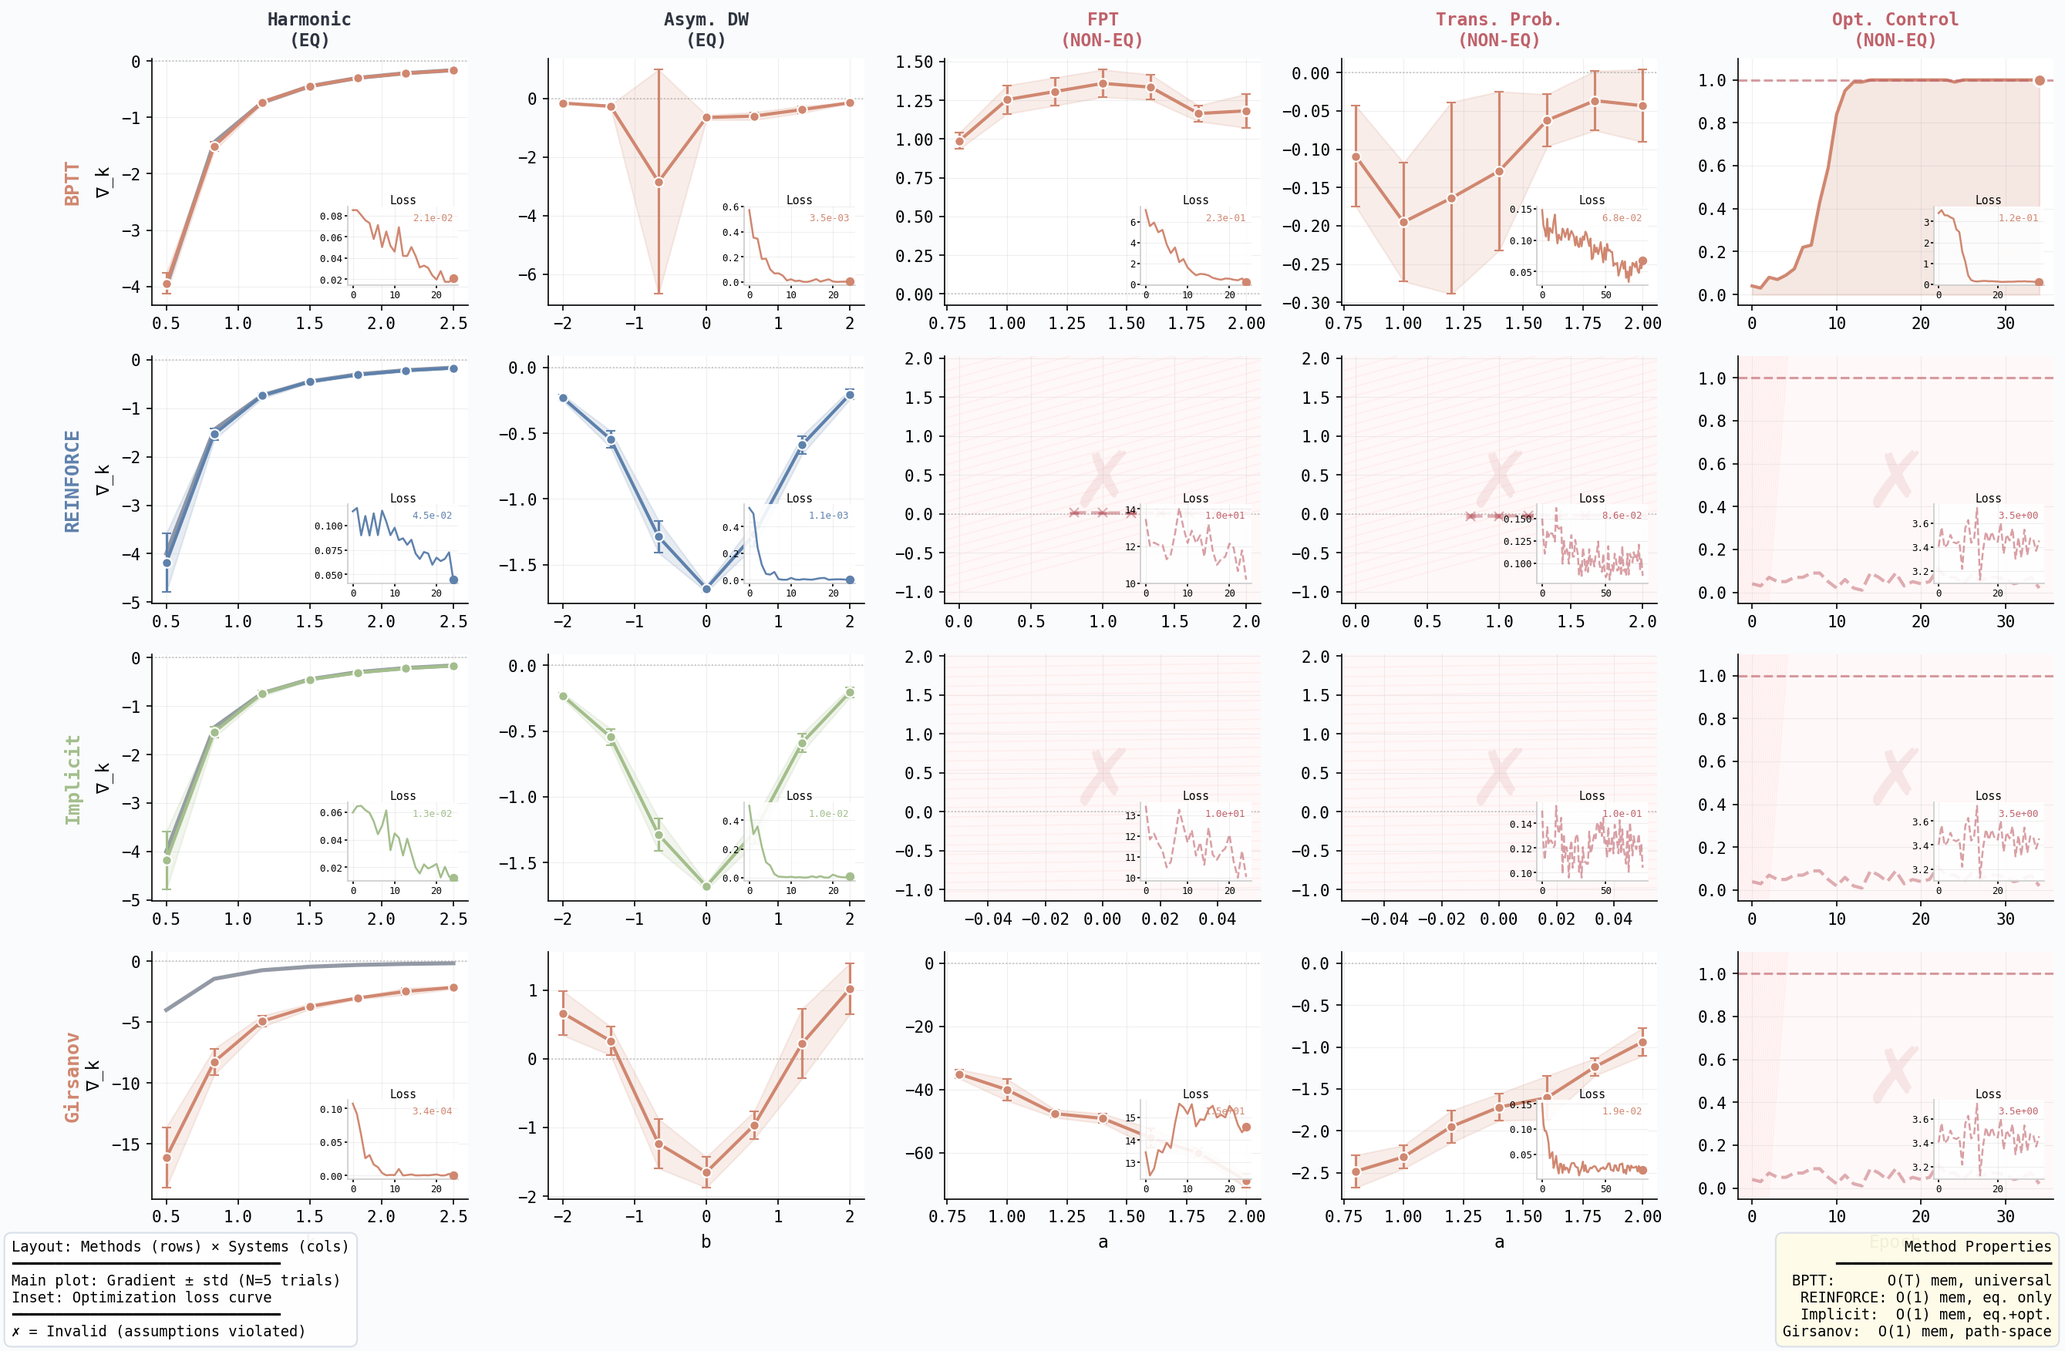
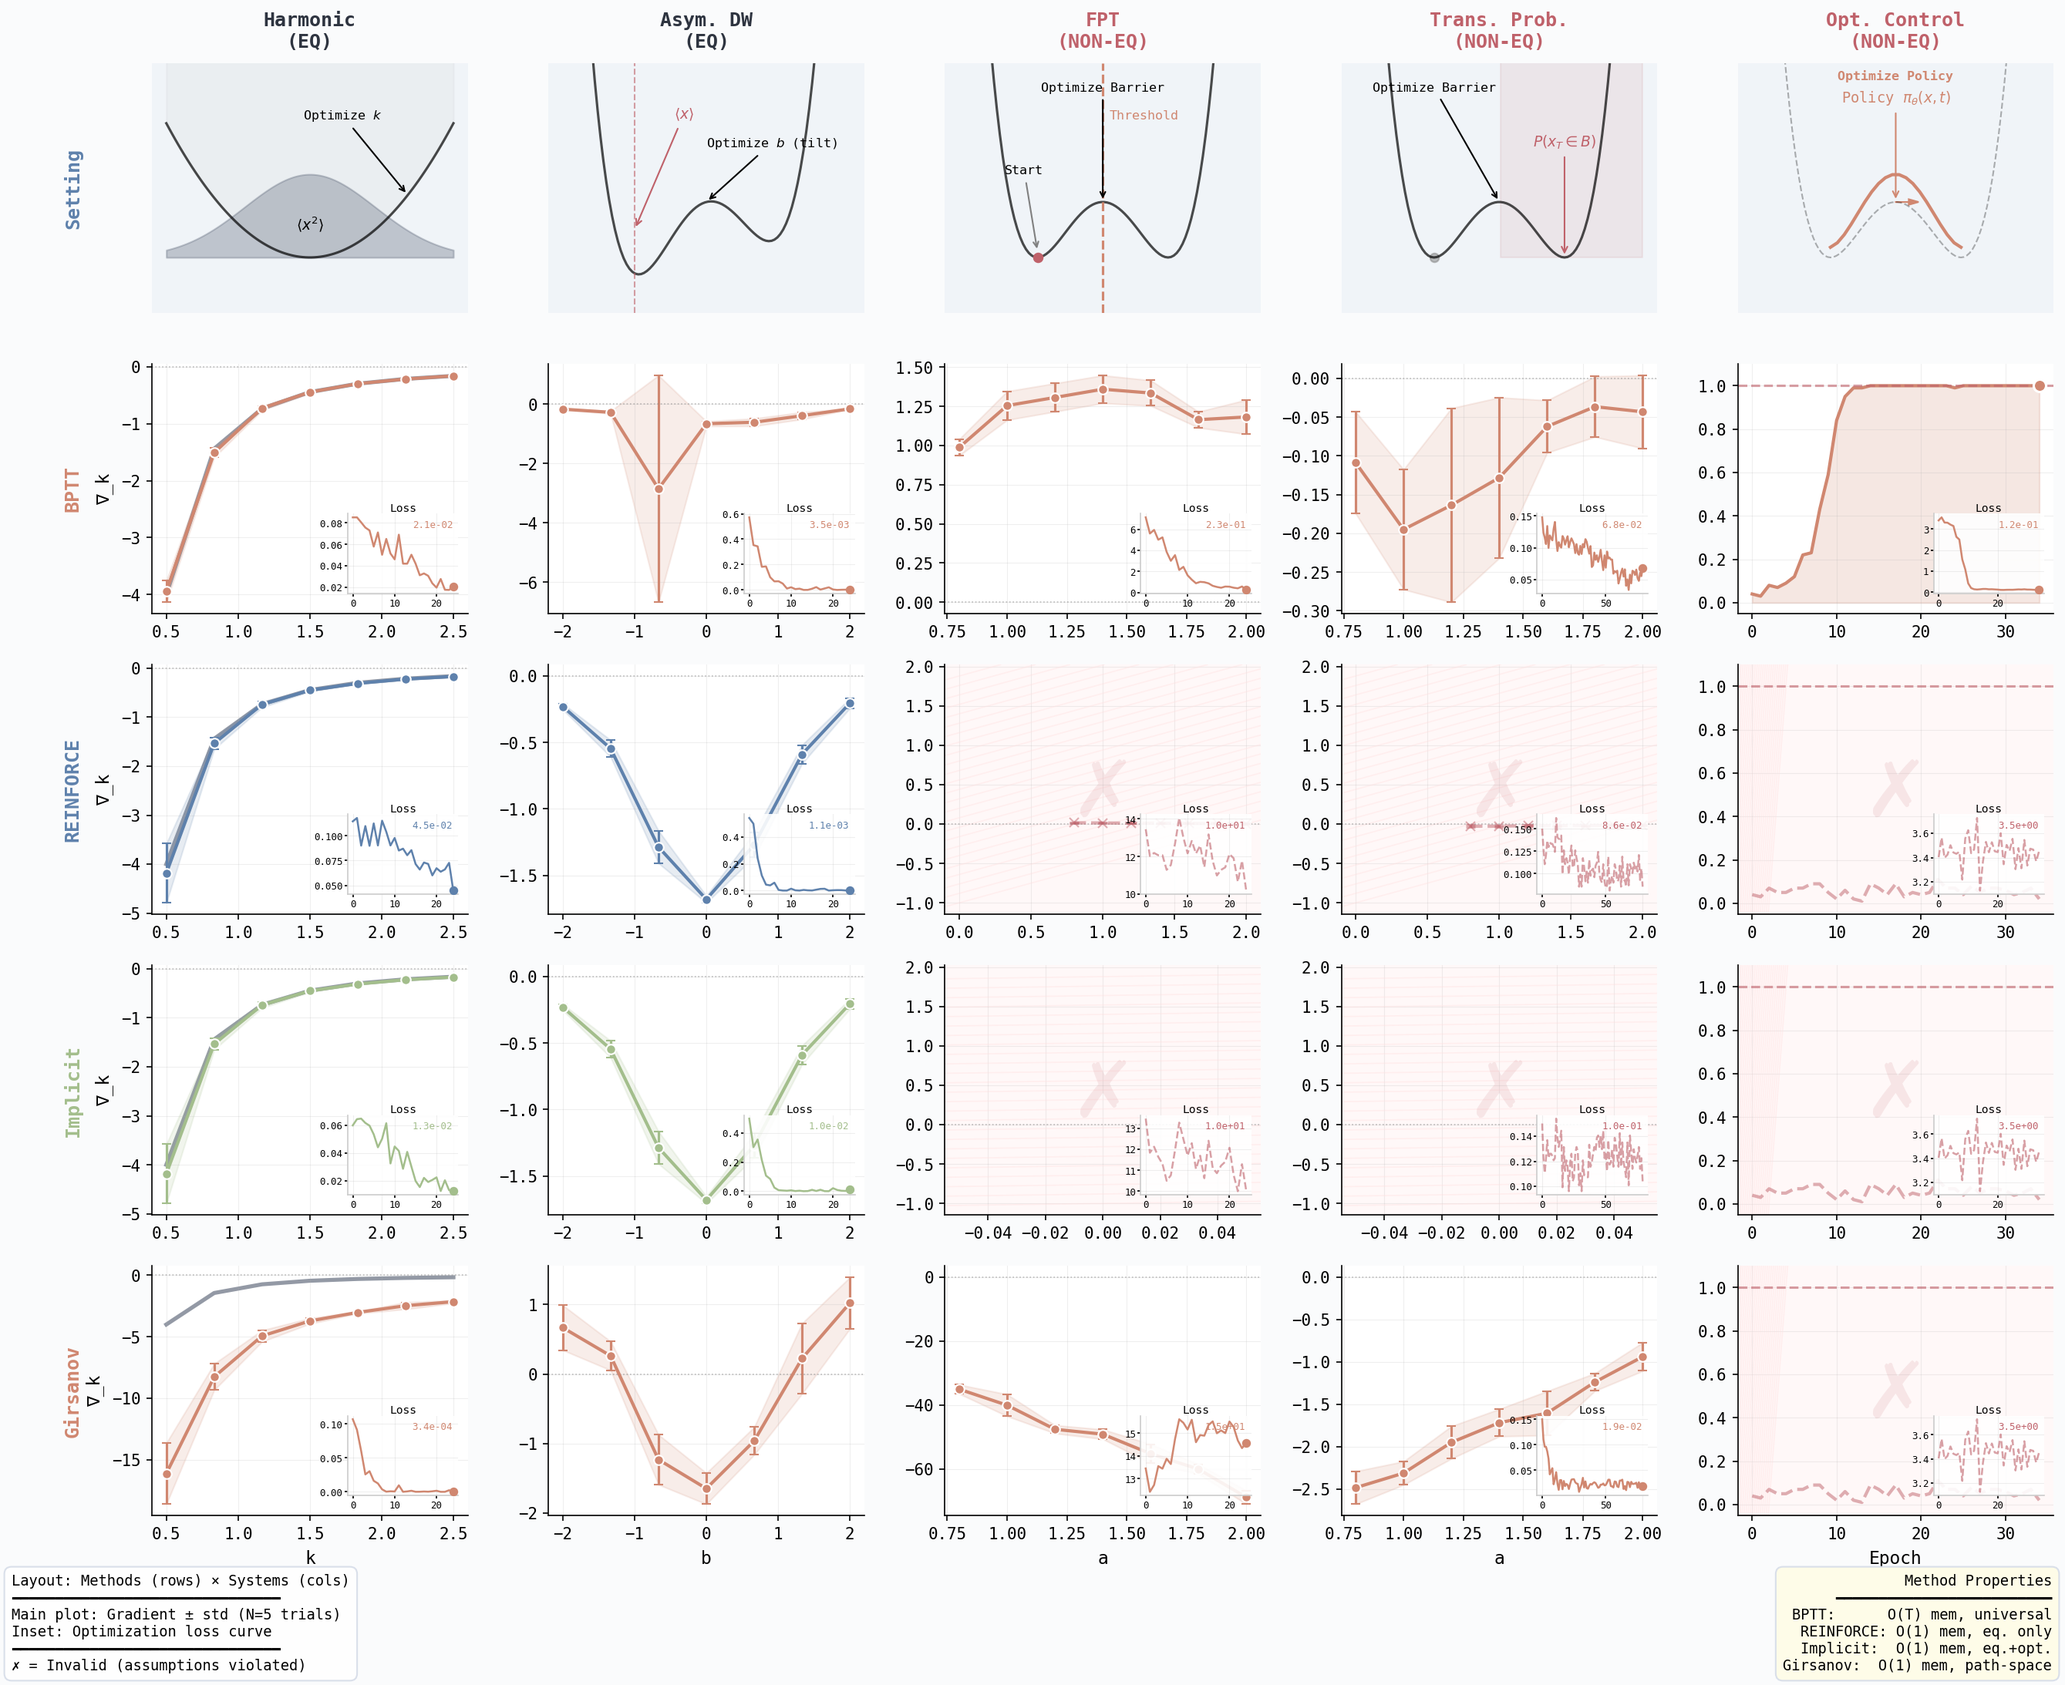
add tasks schematic

diff --git a/scripts/demo_gradient_estimators.py b/scripts/demo_gradient_estimators.py
@@ -8,10 +8,12 @@ and optimization trajectories in insets.
 
 Grid Structure:
 ┌─────────────────────────────────────────────────────────────────────────┐
-│ ROWS: Gradient Methods                                                  │
-│   1. BPTT (Backprop Through Time)                                       │
-│   2. REINFORCE                                                          │
-│   3. Implicit Differentiation                                           │
+│ ROWS:                                                                   │
+│   1. Problem Setting (Schematic)                                        │
+│   2. BPTT (Backprop Through Time)                                       │
+│   3. REINFORCE                                                          │
+│   4. Implicit Differentiation                                           │
+│   5. Girsanov (Path Reweighting)                                        │
 │                                                                         │
 │ COLUMNS: Systems                                                        │
 │   1. Harmonic (Equilibrium)                                             │
@@ -880,10 +882,86 @@ def run_optimal_control():
 # Plotting
 # =============================================================================
 
-def plot_comprehensive_comparison(results_list, save_path):
-    """Create a 4×5 grid: methods (rows) × systems (columns)."""
+def plot_system_schematic(ax, system_name, system_type):
+    """Plot schematic of the problem setting."""
+    ax.set_facecolor('#F0F4F8')
+    x = np.linspace(-2.2, 2.2, 100)
     
-    fig, axes = plt.subplots(4, 5, figsize=(18, 12))
+    if system_name == 'Harmonic':
+        y = 0.5 * x**2
+        ax.plot(x, y, 'k-', lw=1.5, alpha=0.7)
+        # Illustrate observable <x^2>
+        # Shade the thermal distribution
+        prob = np.exp(-y)
+        ax.fill_between(x, y, 4, alpha=0.05, color='gray')
+        ax.fill_between(x, 0, prob * 1.5, color=COLORS['Theory'], alpha=0.3)
+        ax.annotate(r'$\langle x^2 \rangle$', xy=(0, 0.5), ha='center', fontsize=9, fontweight='bold')
+        # Highlight optimized parameter k
+        ax.annotate('Optimize $k$', xy=(1.5, 1.125), xytext=(0.5, 2.5),
+                   arrowprops=dict(arrowstyle='->', color='black', lw=1), fontsize=8, ha='center')
+        
+    elif system_name == 'Asym. DW':
+        y = (x**2 - 1)**2 + 0.3 * x
+        ax.plot(x, y, 'k-', lw=1.5, alpha=0.7)
+        # Illustrate mean position shift
+        ax.axvline(-1.1, color=COLORS['Target'], ls='--', alpha=0.6, lw=1)
+        ax.annotate(r'$\langle x \rangle$', xy=(-1.1, 0.5), xytext=(-0.5, 2.5), 
+                   arrowprops=dict(arrowstyle='->', color=COLORS['Target']), fontsize=9, color=COLORS['Target'])
+        # Highlight optimized parameter b (tilt)
+        ax.annotate('Optimize $b$ (tilt)', xy=(0, 1.0), xytext=(1.0, 2.0),
+                   arrowprops=dict(arrowstyle='->', color='black', lw=1), fontsize=8, ha='center')
+
+    elif system_name == 'FPT':
+        y = (x**2 - 1)**2
+        ax.plot(x, y, 'k-', lw=1.5, alpha=0.7)
+        # Illustrate barrier crossing
+        ax.scatter([-1], [0], color=COLORS['Target'], s=30, zorder=5)
+        ax.annotate('Start', xy=(-1, 0.1), xytext=(-1.5, 1.5), arrowprops=dict(arrowstyle='->', color='gray'), fontsize=8)
+        ax.axvline(0, color=COLORS['Girsanov'], ls='--', lw=1.5)
+        ax.text(0.1, 2.5, 'Threshold', color=COLORS['Girsanov'], fontsize=8)
+        # Highlight optimized parameter (barrier height)
+        ax.annotate('Optimize Barrier', xy=(0, 1.0), xytext=(0, 3.0),
+                   arrowprops=dict(arrowstyle='->', color='black', lw=1), fontsize=8, ha='center')
+        
+    elif system_name == 'Trans. Prob.':
+        y = (x**2 - 1)**2
+        ax.plot(x, y, 'k-', lw=1.5, alpha=0.7)
+        # Illustrate transition to right well
+        ax.scatter([-1], [0], color='gray', s=30, alpha=0.5)
+        ax.annotate(r'$P(x_T \in B)$', xy=(1, 0), xytext=(1, 2), 
+                   arrowprops=dict(arrowstyle='->', color=COLORS['Target']), ha='center', fontsize=9, color=COLORS['Target'])
+        ax.fill_between(x, 0, 4, where=(x>0), color=COLORS['Target'], alpha=0.1)
+        # Highlight optimized parameter (barrier height)
+        ax.annotate('Optimize Barrier', xy=(0, 1.0), xytext=(-1.0, 3.0),
+                   arrowprops=dict(arrowstyle='->', color='black', lw=1), fontsize=8, ha='center')
+
+    elif system_name == 'Opt. Control':
+        y = (x**2 - 1)**2
+        ax.plot(x, y, 'k--', lw=1, alpha=0.3)
+        # Illustrate controlled path
+        t = np.linspace(0, 1, 20)
+        path_x = -1 + 2 * t  # Simple path left to right
+        path_y = (path_x**2 - 1)**2 + 0.5 * np.exp(-(path_x)**2) # Lifted path
+        ax.plot(path_x, path_y, '-', color=COLORS['BPTT'], lw=2)
+        ax.arrow(0, 1.0, 0.2, 0, head_width=0.1, color=COLORS['BPTT'])
+        ax.annotate(r'Policy $\pi_\theta(x,t)$', xy=(0, 1.0), xytext=(0, 2.8), 
+                   arrowprops=dict(arrowstyle='->', color=COLORS['BPTT']), color=COLORS['BPTT'], ha='center', fontsize=9)
+        # Highlight optimized policy
+        ax.text(0, 3.2, 'Optimize Policy', fontsize=8, ha='center', fontweight='bold', color=COLORS['BPTT'])
+
+    ax.set_ylim(-1, 3.5)
+    ax.set_yticks([])
+    ax.set_xticks([])
+    ax.spines['top'].set_visible(False)
+    ax.spines['right'].set_visible(False)
+    ax.spines['left'].set_visible(False)
+    ax.spines['bottom'].set_visible(False)
+
+
+def plot_comprehensive_comparison(results_list, save_path):
+    """Create a 5×5 grid: Setting (row 0) + methods (rows 1-4) × systems (columns)."""
+    
+    fig, axes = plt.subplots(5, 5, figsize=(18, 15))
     fig.patch.set_facecolor('#FAFBFC')
     
     method_names = ['BPTT', 'REINFORCE', 'Implicit', 'Girsanov']
@@ -894,7 +972,22 @@ def plot_comprehensive_comparison(results_list, save_path):
         is_equilibrium = col < 2
         is_control = col == 4
         
-        for row, method in enumerate(method_names):
+        # Row 0: Problem Setting Schematic
+        plot_system_schematic(axes[0, col], sys_name, sys_type)
+        
+        # Title (top row only)
+        color = '#2E3440' if is_equilibrium else '#BF616A'
+        axes[0, col].set_title(f'{sys_name}\n({sys_type})', fontweight='bold', fontsize=12,
+                    color=color, pad=10)
+        
+        # Row label for schematic (left column only)
+        if col == 0:
+            axes[0, col].annotate("Setting", xy=(-0.25, 0.5), xycoords='axes fraction',
+                       rotation=90, va='center', ha='center', fontsize=12,
+                       fontweight='bold', color='#5E81AC')
+
+        for row_idx, method in enumerate(method_names):
+            row = row_idx + 1  # Shift down by 1
             ax = axes[row, col]
             
             method_data = res[method]
@@ -928,7 +1021,7 @@ def plot_comprehensive_comparison(results_list, save_path):
                 ax.set_ylim(-0.05, 1.1)
                 ax.axhline(1.0, color=COLORS['Target'], ls='--', lw=1.5, alpha=0.6)
                 ax.set_ylabel('Success Rate' if col == 0 else '')
-                ax.set_xlabel('Epoch' if row == 3 else '')
+                ax.set_xlabel('Epoch' if row == 4 else '')
             else:
                 # Gradient with error bars
                 grads_mean = np.array(method_data['grads_mean'])
@@ -954,7 +1047,7 @@ def plot_comprehensive_comparison(results_list, save_path):
                 
                 ax.axhline(0, color='gray', ls=':', lw=0.8, alpha=0.5)
                 ax.set_ylabel(f'∇_{param_name}' if col == 0 else '')
-                ax.set_xlabel(param_name if row == 3 else '')
+                ax.set_xlabel(param_name if row == 4 else '')
             
             # Inset: Loss curve - small, consistent position in lower-right
             if 'loss_history' in method_data and len(method_data['loss_history']) > 0:
@@ -986,12 +1079,6 @@ def plot_comprehensive_comparison(results_list, save_path):
                 ax_ins.annotate(f'{final_loss:.1e}', xy=(0.95, 0.92), 
                                xycoords='axes fraction', ha='right', va='top',
                                fontsize=6, color=COLORS[method] if is_valid else COLORS['Invalid'])
-            
-            # Column header (only top row)
-            if row == 0:
-                color = '#2E3440' if is_equilibrium else '#BF616A'
-                ax.set_title(f'{sys_name}\n({sys_type})', fontweight='bold', fontsize=11,
-                            color=color, pad=8)
             
             # Row label (only left column)
             if col == 0:
@@ -1070,6 +1157,117 @@ def print_summary_table(results_list):
     print(f"{'Memory Scaling':<25} | {'O(T)':<12} | {'O(1)':<12} | {'O(1)':<12} | {'O(1)':<12}")
     print(f"{'Needs Diff. Solver':<25} | {'Yes':<12} | {'No':<12} | {'No':<12} | {'No':<12}")
     print("=" * 80)
+
+
+def plot_individual_columns(results_list, save_dir):
+    """Create separate figures for each system column."""
+    
+    method_names = ['BPTT', 'REINFORCE', 'Implicit', 'Girsanov']
+    system_names = ['Harmonic', 'Asym. DW', 'FPT', 'Trans. Prob.', 'Opt. Control']
+    system_types = ['EQ', 'EQ', 'NON-EQ', 'NON-EQ', 'NON-EQ']
+    file_slugs = ['harmonic', 'asym_dw', 'fpt', 'trans_prob', 'opt_control']
+    
+    for col, (res, sys_name, sys_type, slug) in enumerate(zip(results_list, system_names, system_types, file_slugs)):
+        fig, axes = plt.subplots(5, 1, figsize=(4, 12))
+        fig.patch.set_facecolor('#FAFBFC')
+        
+        is_equilibrium = col < 2
+        is_control = col == 4
+        
+        # Row 0: Schematic
+        plot_system_schematic(axes[0], sys_name, sys_type)
+        color = '#2E3440' if is_equilibrium else '#BF616A'
+        axes[0].set_title(f'{sys_name}\n({sys_type})', fontweight='bold', fontsize=11, color=color, pad=8)
+        
+        for row_idx, method in enumerate(method_names):
+            row = row_idx + 1
+            ax = axes[row]
+            method_data = res[method]
+            is_valid = method_data.get('valid', True)
+            
+            # Background
+            if not is_valid:
+                ax.set_facecolor('#FFF8F8')
+                for i in range(-100, 200, 12):
+                    ax.axline((0, i/100), slope=0.5, color='#FFE0E0', lw=0.8, alpha=0.4, clip_on=True)
+            else:
+                ax.set_facecolor('#FFFFFF')
+                
+            param_vals = res['param_values']
+            param_name = res.get('param_name', '')
+            
+            # Main plot
+            if is_control:
+                success = method_data.get('success', method_data['grads_mean'])
+                if is_valid:
+                    ax.plot(param_vals, success, '-', color=COLORS[method], lw=LW)
+                    ax.fill_between(param_vals, 0, success, color=COLORS[method], alpha=0.2)
+                    ax.scatter([param_vals[-1]], [success[-1]], color=COLORS[method], s=60, zorder=5, edgecolor='white', linewidth=1.5)
+                else:
+                    ax.plot(param_vals, success, '--', color=COLORS['Invalid'], lw=LW, alpha=0.5)
+                
+                ax.set_ylim(-0.05, 1.1)
+                ax.axhline(1.0, color=COLORS['Target'], ls='--', lw=1.5, alpha=0.6)
+                ax.set_ylabel('Success Rate')
+                ax.set_xlabel('Epoch' if row == 4 else '')
+            else:
+                grads_mean = np.array(method_data['grads_mean'])
+                grads_std = np.array(method_data['grads_std'])
+                
+                if is_valid and not np.all(np.isnan(grads_mean)):
+                    ax.errorbar(param_vals, grads_mean, yerr=grads_std, fmt='o-', color=COLORS[method], lw=LW, ms=MS,
+                               capsize=3, capthick=1.5, elinewidth=1.5, markeredgecolor='white', markeredgewidth=1)
+                    ax.fill_between(param_vals, grads_mean - grads_std, grads_mean + grads_std, color=COLORS[method], alpha=0.15)
+                elif not np.all(np.isnan(grads_mean)):
+                    ax.errorbar(param_vals, grads_mean, yerr=grads_std, fmt='x--', color=COLORS['Invalid'], lw=LW, ms=MS,
+                               capsize=3, capthick=1.5, elinewidth=1.5, alpha=0.5)
+                
+                if 'theory' in res:
+                    ax.plot(param_vals, res['theory'], '-', color=COLORS['Theory'], lw=2.5, alpha=0.6, label='Theory', zorder=0)
+                
+                ax.axhline(0, color='gray', ls=':', lw=0.8, alpha=0.5)
+                ax.set_ylabel(f'∇_{param_name}')
+                ax.set_xlabel(param_name if row == 4 else '')
+
+            # Inset: Loss curve
+            if 'loss_history' in method_data and len(method_data['loss_history']) > 0:
+                ax_ins = ax.inset_axes([0.62, 0.08, 0.35, 0.32])
+                ax_ins.set_facecolor('white')
+                ax_ins.patch.set_alpha(0.9)
+                loss_hist = method_data['loss_history']
+                epochs = range(len(loss_hist))
+                
+                if is_valid:
+                    ax_ins.plot(epochs, loss_hist, '-', color=COLORS[method], lw=1.2)
+                    ax_ins.scatter([len(loss_hist)-1], [loss_hist[-1]], color=COLORS[method], s=20, zorder=5)
+                else:
+                    ax_ins.plot(epochs, loss_hist, '--', color=COLORS['Invalid'], lw=1.2, alpha=0.6)
+                
+                ax_ins.tick_params(labelsize=6, length=2, pad=1)
+                ax_ins.set_title('Loss', fontsize=7, pad=1)
+                for spine in ax_ins.spines.values():
+                    spine.set_edgecolor('#CCCCCC')
+                    spine.set_linewidth(0.8)
+                
+                final_loss = loss_hist[-1]
+                ax_ins.annotate(f'{final_loss:.1e}', xy=(0.95, 0.92), xycoords='axes fraction', ha='right', va='top',
+                               fontsize=6, color=COLORS[method] if is_valid else COLORS['Invalid'])
+
+            # Method label (on every row for individual plots)
+            ax.annotate(method, xy=(-0.25, 0.5), xycoords='axes fraction',
+                       rotation=90, va='center', ha='center', fontsize=10,
+                       fontweight='bold', color=COLORS[method])
+
+            # Invalid marker
+            if not is_valid:
+                ax.text(0.5, 0.5, '✗', transform=ax.transAxes, fontsize=40, ha='center', va='center',
+                       color=COLORS['Invalid'], alpha=0.12, fontweight='bold')
+
+        plt.tight_layout()
+        save_path = os.path.join(save_dir, f"demo_col_{slug}.png")
+        plt.savefig(save_path, dpi=150, bbox_inches='tight', facecolor='#FAFBFC')
+        print(f"[+] Saved column figure to {save_path}")
+        plt.close(fig)
     
     
 # =============================================================================
@@ -1106,6 +1304,9 @@ if __name__ == "__main__":
     # Plot and save
     save_path = os.path.join(assets_dir, "demo_gradient_estimators.png")
     plot_comprehensive_comparison(results, save_path)
+    
+    # Save individual columns
+    plot_individual_columns(results, assets_dir)
     
     # Print summary
     print_summary_table(results)
